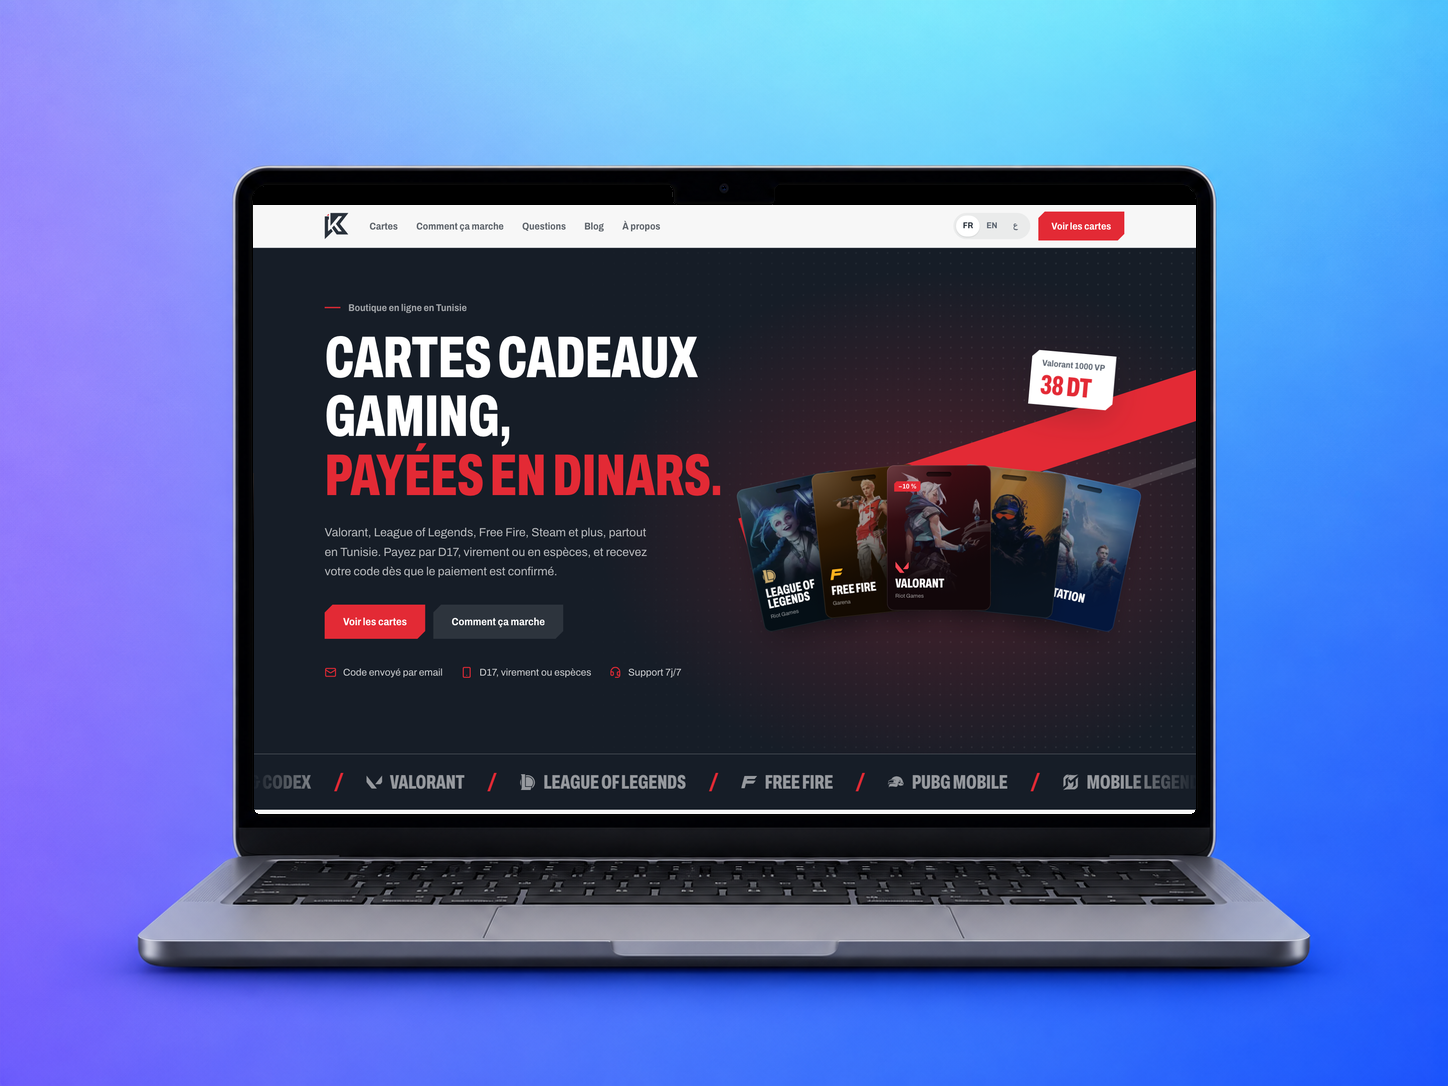
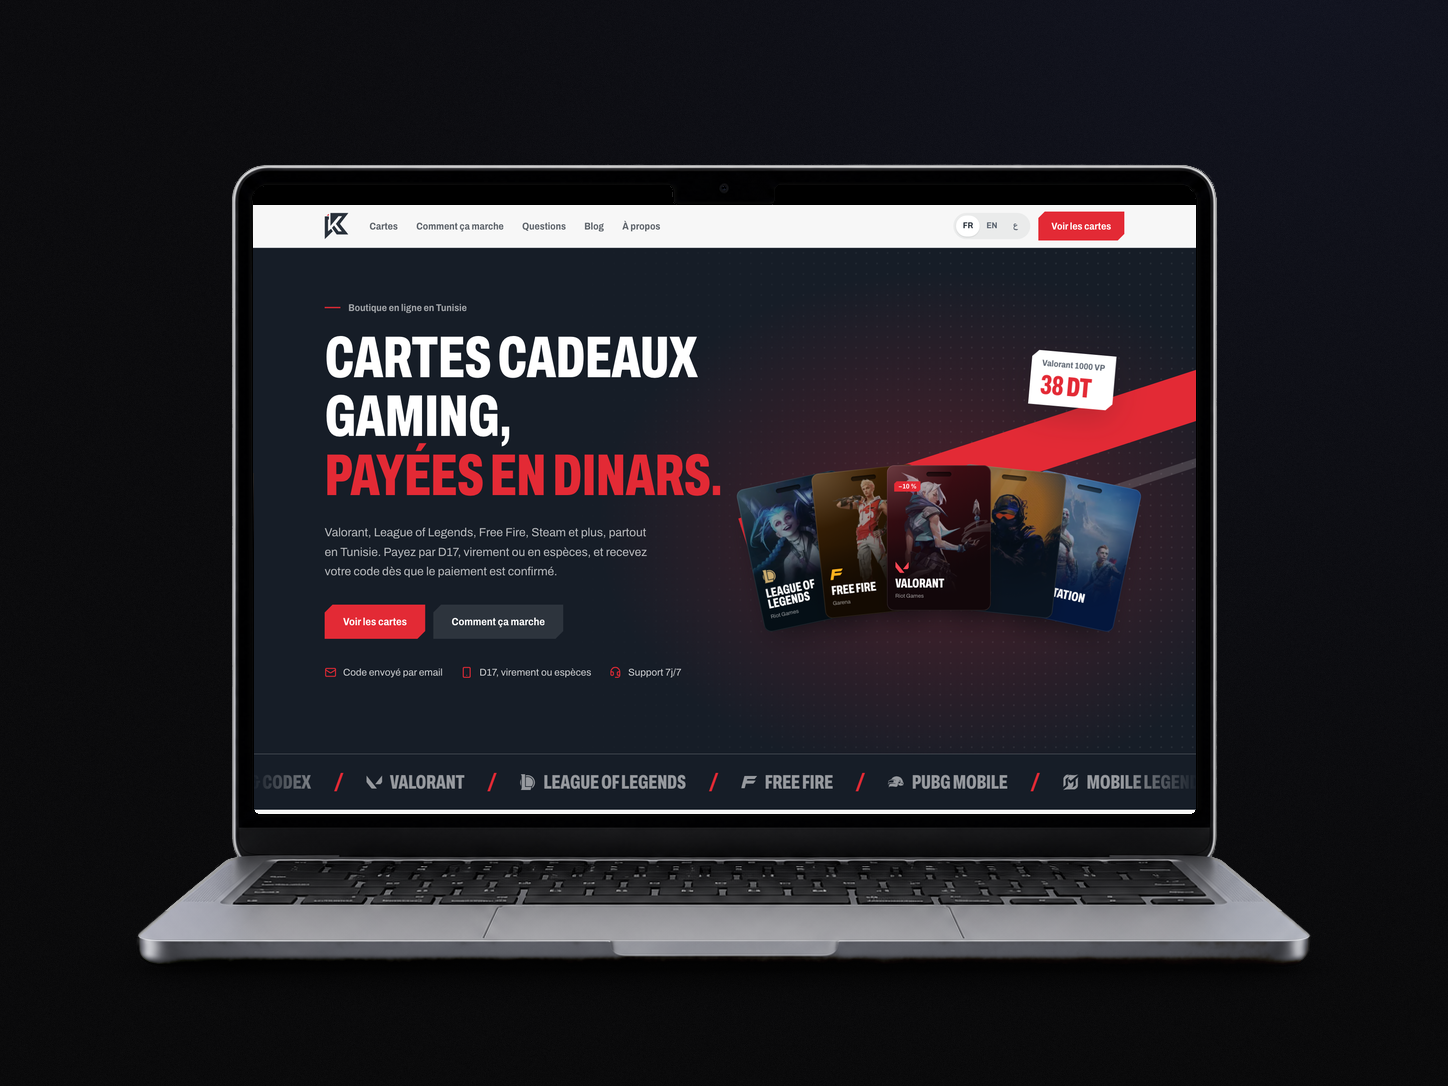
Move project mockups onto the dark background and use white card badges

diff --git a/website/src/components/home/project-card.jsx b/website/src/components/home/project-card.jsx
@@ -11,7 +11,7 @@ function ProjectImage({ project }) {
     <div className="relative aspect-[4/3] overflow-hidden rounded-2xl bg-surface">
       {project.image ? (
         <Image
-          src={`${project.image}?v=20260924-3`}
+          src={`${project.image}?v=20260926-1`}
           alt={`${project.name} demo`}
           fill
           sizes="(min-width: 1240px) 588px, (min-width: 768px) 50vw, 100vw"
@@ -24,8 +24,7 @@ function ProjectImage({ project }) {
         />
       )}
       <span aria-hidden className="pointer-events-none absolute inset-0 rounded-[inherit] ring-1 ring-inset ring-white/10" />
-      <span className="absolute left-4 top-4 inline-flex items-center gap-2 rounded-full bg-black/55 px-3 py-1.5 text-xs font-medium text-white backdrop-blur-md">
-        <span aria-hidden className="size-1.5 rounded-full" style={{ background: accent }} />
+      <span className="absolute left-4 top-4 rounded-full bg-white px-3 py-1.5 text-xs font-medium text-black">
         {project.badge}
       </span>
       {project.href ? (

diff --git a/website/src/components/home/projects-section.jsx b/website/src/components/home/projects-section.jsx
@@ -111,7 +111,7 @@ const projects = [
     name: "LeBonBureau",
     domain: "lebonbureau.alabaganne.com",
     href: "https://lebonbureau.alabaganne.com",
-    image: "/projects/lebonbureau-demo.jpg",
+    image: "/projects/lebonbureau-demo.png",
     category: ["Web"],
     badge: "E-commerce",
     tag: "E-commerce store",

diff --git a/website/scripts/mockup.py b/website/scripts/mockup.py
@@ -40,11 +40,12 @@ def edge(points):
     raise SystemExit("screen edge not found in frame")
 
 
-# laptop screen: find it inside the bezel, keep the frame's notch and corners
-top = edge([(400, y) for y in range(120, 400)])[1]
+# laptop screen: find it inside the bezel, keep the frame's notch and corners.
+# Scans start on the black bezel, past the lid's bright aluminium rim.
+top = edge([(400, y) for y in range(175, 400)])[1]
 bottom = edge([(400, y) for y in range(900, 600, -1)])[1]
-left = edge([(x, 500) for x in range(150, 500)])[0]
-right = edge([(x, 500) for x in range(1300, 900, -1)])[0]
+left = edge([(x, 500) for x in range(240, 500)])[0]
+right = edge([(x, 500) for x in range(1208, 900, -1)])[0]
 pad = 3
 box = (left - pad, top - pad, right + pad + 1, bottom + pad + 1)
 crop = frame.crop(box)
@@ -76,9 +77,9 @@ if args.phone:
     k = PW / 220
     R_OUT, RIM, INSET = 40 * k, 2.5, 10
 
-    for dy, alpha, blur in ((22, 110, 22), (7, 90, 7)):
+    for dy, alpha, blur in ((22, 150, 22), (7, 120, 7)):
         sh = Image.new("RGBA", canvas.size, (0, 0, 0, 0))
-        ImageDraw.Draw(sh).rounded_rectangle((X0 + 4, Y0 + dy, X1 - 4, Y1 + dy), R_OUT, fill=(12, 14, 45, alpha))
+        ImageDraw.Draw(sh).rounded_rectangle((X0 + 4, Y0 + dy, X1 - 4, Y1 + dy), R_OUT, fill=(0, 0, 0, alpha))
         canvas = Image.alpha_composite(canvas, sh.filter(ImageFilter.GaussianBlur(blur)))
 
     M = 4  # room for the side buttons

diff --git a/website/PROJECT-IMAGE-PROMPTS.md b/website/PROJECT-IMAGE-PROMPTS.md
@@ -2,14 +2,15 @@
 
 These prompts produced the September 2026 portfolio mockups using the built-in imagegen tool. Attach the referenced images when reusing a prompt. For websites, prefer the [scripted mockups](#scripted-website-mockups).
 
+Every mockup shows the same MacBook on a near-black background (about `#0a0a0c`, with a faint cool light at the top right), to match the dark website. The earlier mockups sat on a bright cyan/lavender/violet/cobalt gradient; they were moved onto the dark background by keeping the laptop and each project's screen pixels and replacing only the backdrop. Desktop apps are shown on the MacBook screen, with the old gradient as the desktop wallpaper.
+
 ## References
 
 - Web mockup and shared background: `public/projects/menumate-demo.png`.
-- Light desktop window: `public/projects/backupmaster-demo.png`.
-- Dark desktop window: `public/projects/promptstream-demo.png`.
+- Desktop app on the MacBook screen: `public/projects/backupmaster-demo.png` (light app) and `public/projects/promptstream-demo.png` (dark app).
 - Content source: a screenshot of the project being presented.
 
-Use the existing mockup as Image 1 and the new project's screenshot as Image 2. Keep the website or app's own colors inside the screen. Use the shared gradient outside it.
+Use the existing mockup as Image 1 and the new project's screenshot as Image 2. Keep the website or app's own colors inside the screen. Keep the dark background outside it.
 
 ## Scripted website mockups
 
@@ -39,7 +40,7 @@ For websites that open in a browser, use the scripts in `scripts/` instead of th
 
 ### MacBook
 
-- Frame: `public/projects/menumate-demo.png`. The script finds its screen (941 x 626 px, top left at x=254, y=187) and keeps the frame's notch and corners.
+- Frame: `public/projects/menumate-demo.png`, the MacBook on the dark background. The script finds its screen (941 x 626 px, top left at x=254, y=187) and keeps the frame's notch and corners.
 - The page starts below the notch, with a black strip beside it, like a fullscreen app. No content sits under the notch.
 
 ### Phone (only when asked)
@@ -47,7 +48,7 @@ For websites that open in a browser, use the scripts in `scripts/` instead of th
 Add the phone only when the request asks for it. By default, show the MacBook alone.
 
 - Size on the 1448 x 1086 canvas: 248 x 514 px, bottom right corner at x=1362, y=1036, standing in front of the laptop's right corner.
-- Corner radius 45 px, screen inset 10 px, Dynamic Island 72 x 21 px, side buttons on both sides, soft navy shadow.
+- Corner radius 45 px, screen inset 10 px, Dynamic Island 72 x 21 px, side buttons on both sides, soft black shadow.
 - iOS status bar (9:41, signal, wifi, battery), 47 css px tall, in the site's `theme-color`, like Safari. Pass the color with `--bar`.
 - The phone can show a different page of the same project when that tells the story better. For example, MenuMate's landing page on the MacBook and a restaurant's public menu page on the phone. For ABSoft and Taroura Arena, both devices show the landing page.
 - The phone screen should end cleanly, with no content cut at the bottom. If the hero doesn't fit, fix the site's mobile layout (ABSoft hides its photo on phones and lets the hero fill the first screen).
@@ -63,7 +64,7 @@ Use case: compositing / product-mockup.
 Create one landscape 4:3 portfolio thumbnail, 1448 x 1086 pixels.
 
 Image 1 is the edit target and strict presentation template. Preserve its
-exact gradient background, MacBook Pro hardware, camera angle, size,
+exact dark background, MacBook Pro hardware, camera angle, size,
 position, shadow and margins. Image 2 supplies only the website content.
 
 Replace only the website inside Image 1's screen with [PROJECT NAME]
@@ -74,13 +75,13 @@ Keep important content clear of the display notch.
 
 Use the same centered, straight-on space-gray MacBook Pro, slim black
 bezel, small keyboard view and complete visible laptop as Image 1.
-Keep the bright cyan upper right, lavender upper left, violet lower left
-and electric cobalt lower right gradient, with subtle fine grain and a
-soft grounded shadow. Background colors fill every edge.
+Keep the near-black charcoal background (about #0a0a0c) with a faint
+cool light at the top right and subtle fine grain. Keep the aluminium a
+neutral silver grey. Background colors fill every edge.
 
 No extra devices, badges, text outside the screen, decorative shapes,
-patterns, scenery, floor horizon, dramatic glow or dull dark corners.
-Keep the screen crisp and the colored margins balanced.
+patterns, scenery, floor horizon or colored glow. Keep the screen crisp
+and the margins balanced.
 ```
 
 ## Desktop apps
@@ -89,22 +90,25 @@ Keep the screen crisp and the colored margins balanced.
 Use case: compositing.
 Create one landscape 4:3 portfolio thumbnail, 1448 x 1086 pixels.
 
-Image 1 is the background and framing reference. Image 2 is the native
-[PROJECT NAME] app screenshot to present. Preserve the screenshot's
+Image 1 is the MacBook mockup on the dark background. Image 2 is the
+native [PROJECT NAME] app screenshot to present. Preserve the screenshot's
 interface, typography, icons, colors, content and natural proportions.
 
-Place one complete native app window directly on Image 1's bright
-cyan/lavender/violet/cobalt gradient. Center it, front-on with no tilt,
-at about 80% of the canvas width. Keep generous balanced margins,
-rounded corners, a subtle border and a soft controlled shadow.
-Keep the native window controls. If the screenshot lacks them, add
-a slim integrated titlebar with small red, yellow and green controls.
+Keep Image 1's laptop, camera angle, dark background and margins exactly.
+Fill the MacBook screen with a soft cyan, lavender, violet and cobalt
+gradient wallpaper, and place one complete native app window on it,
+centered and front-on, at about 80% of the screen width, with rounded
+corners, a subtle border and a soft shadow. Keep the native window
+controls. If the screenshot lacks them, add a slim integrated titlebar
+with small red, yellow and green controls.
 
-No laptop, monitor, desktop wallpaper, dock, OS menu bar, extra text,
-decorative objects or patterns. Do not crop or redesign the interface.
+No dock, OS menu bar, extra text, decorative objects or patterns.
+Do not crop or redesign the interface.
 ```
 
 ## BackupMaster demo adjustment
+
+The two edits below were made on the old gradient thumbnails, before the app windows moved onto the MacBook screen.
 
 ```text
 Remove the entire yellow device-trust notice, including its icon,
@@ -140,5 +144,5 @@ Add no other decorations or text.
 
 Save previews separately until reviewed, as `../media/mockups/<name>-demo-draft.png`. Keep final images in
 `public/projects/`, preserve the 4:3 aspect ratio, and update the image
-URL version in `src/components/home/projects-section.jsx` after replacing
+URL version in `src/components/home/project-card.jsx` after replacing
 assets so the previous optimized images are not served from cache.
